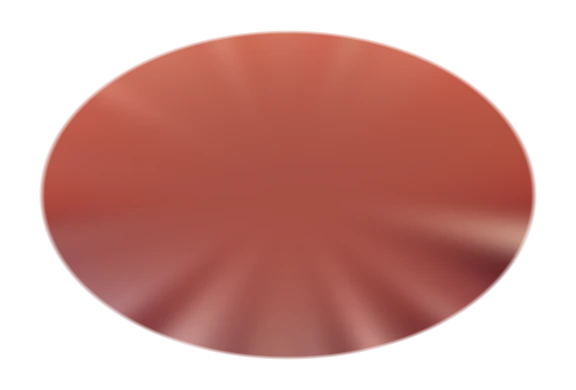
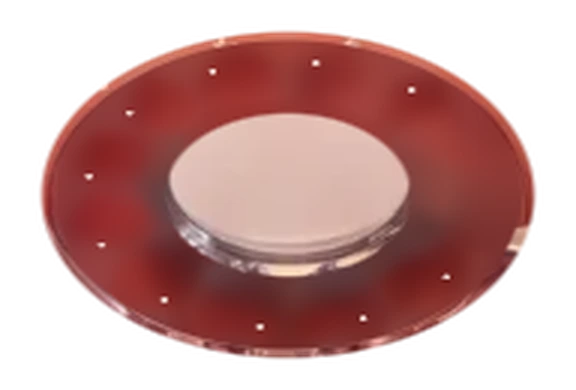
Works: give the dial plate the photo's glass look
The bed is now the photo's own plate with only the holes painted out, so
the outer rim, thickness and card ring stay as photographed. The hole
rims turn as a mask over a fixed texture taken from the photo's
highlights, and a soft shadow sits inside each hole.

diff --git a/works.html b/works.html
@@ -67,8 +67,8 @@
   }
 
   /* ---------- 回転ダイヤル電話(パスワード入力) ----------
-     写真の上に、写真の盤を隠す土台(dial-bed)→ 回る盤の裏(dial-wall)→ 回る盤の表(dial-wheel)
-     → 固定の紙と指止め(dial-top)を重ねる。裏を画面の下へずらして盤の厚みにする。
+     写真の上に、穴を消した写真の盤(dial-bed)→ 穴の奥の影(dial-shadow、回る)→ 穴の縁(dial-rim、回る)
+     → 固定の紙と指止め(dial-top)を重ねる。縁は形だけが回り、色は写真の光(dial-rim-tex)を画面に固定して使う。
      位置は写真(1116×2000)に対する割合 */
   /* 電話をタップするとシーン全体がダイヤルを中心に拡大する */
   .works-scene {
@@ -101,15 +101,24 @@
     aspect-ratio: 1;
     transform: translateY(-50%);
   }
-  .dial-wheel,
-  .dial-wall {
+  .dial-spin { /* 円を楕円につぶして回す */
     position: absolute;
     inset: 0;
     width: 100%;
     height: 100%;
     transform: scaleY(0.6625) rotate(var(--dial-rot, 0deg));
   }
-  .dial-wall { transform: translateY(2.5%) scaleY(0.6625) rotate(var(--dial-rot, 0deg)); }
+  .dial-rim {
+    -webkit-mask: url(assets/img/dial-rim-mask.png?v=1) center / 100% 100% no-repeat;
+    mask: url(assets/img/dial-rim-mask.png?v=1) center / 100% 100% no-repeat;
+  }
+  .dial-rim-tex { /* 親の回転とつぶしを打ち消して、画面に固定する */
+    position: absolute;
+    inset: 0;
+    width: 100%;
+    height: 100%;
+    transform: rotate(calc(-1 * var(--dial-rot, 0deg))) scaleY(1.5094);
+  }
   .dial-bed {
     position: absolute;
     left: 42.115%;
@@ -176,13 +185,13 @@
 
 <div class="works-frame melt-wait" id="worksFrame" role="link" tabindex="0" aria-label="トップへ戻る">
   <div class="works-scene">
-  <img class="works-img" src="assets/img/works-closed.webp?v=9" alt="Shih TingFang Diner — Works (2022~) 赤いダイヤル電話">
+  <img class="works-img" src="assets/img/works-closed.webp?v=10" alt="Shih TingFang Diner — Works (2022~) 赤いダイヤル電話">
   <div class="dial-layer">
     <div class="phone-tap" id="phoneTap"></div>
-    <img class="dial-bed" src="assets/img/dial-bed.webp?v=2" alt="" draggable="false">
+    <img class="dial-bed" src="assets/img/dial-bed.webp?v=3" alt="" draggable="false">
     <div class="dial-box" id="dialBox">
-      <img class="dial-wall" src="assets/img/dial-wall.webp?v=1" alt="" draggable="false">
-      <img class="dial-wheel" src="assets/img/dial-wheel.webp?v=6" alt="" draggable="false">
+      <img class="dial-spin" src="assets/img/dial-shadow.webp?v=1" alt="" draggable="false">
+      <div class="dial-spin dial-rim"><img class="dial-rim-tex" src="assets/img/dial-rim-tex.webp?v=1" alt="" draggable="false"></div>
     </div>
     <img class="dial-top" src="assets/img/dial-top.webp?v=2" alt="" draggable="false">
     <div class="dial-dots" id="dialDots" aria-hidden="true"></div>

diff --git a/docs/works-dial-spec.md b/docs/works-dial-spec.md
@@ -6,8 +6,8 @@ Works (2022~) の電話のダイヤルを回して番号を入力し、正しけ
 今の中身は空で、正解しても CLOSED の札はそのまま。受話器の音だけが鳴る。
 
 - 画面と操作: `works-dial.js`、`works.html` の `.dial-*`
-- 画像: `dial-bed.webp`（写真の盤を隠す赤い土台）、`dial-wall.webp`（回る盤の裏。画面の下へ2.5%ずらして厚みにする）、`dial-wheel.webp`（回る盤の表）、`dial-top.webp`（固定の紙と指止め、写真から切り出し）
-- 盤は穴が等間隔の作り図で、光や影を含まないので、回しても二重にならない。盤の楕円は写真の盤の表面（中心 566,1355・半径 80×53）
+- 画像: `dial-bed.webp`（写真の盤から穴だけを消した土台。外周の縁・厚み・紙のまわりは写真のまま）、`dial-shadow.webp`（穴の奥の影、回る）、`dial-rim-mask.png`（穴の縁の形、回るマスク）、`dial-rim-tex.webp`（縁の色。写真の光を画面に固定して使う）、`dial-top.webp`（固定の紙と指止め）
+- 回るのは穴の形だけで、光や厚みは回らないので、回しても二重にならない。穴は等間隔。盤の楕円は写真の盤の表面（中心 566,1355・半径 80×53）
 - `works-closed.webp` にも同じ盤を合成してある（溶ける演出の間も同じ見た目にするため）
 - 暗号文: `assets/works.enc.json`（AES-256-GCM、鍵は PBKDF2-SHA256 60万回）
 
